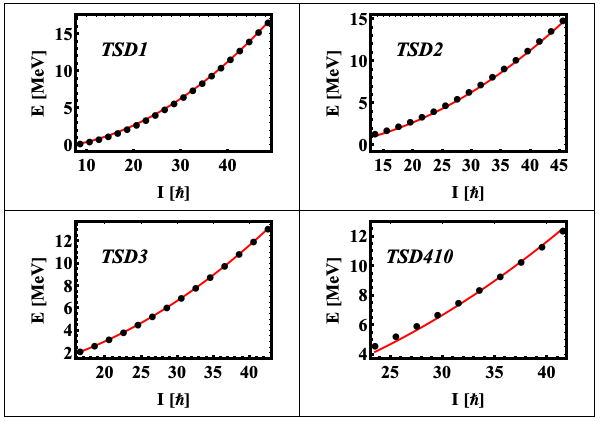
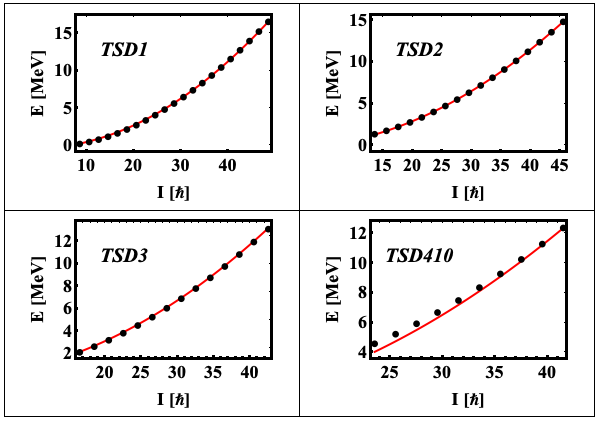
further path updates

diff --git a/README.md b/README.md
@@ -104,7 +104,7 @@ As an alternate nomenclature, the two major formalisms are considered as follows
 
 ### Understanding the coupling scheme of both formalisms
 
-When compared to the literature, where there exist two intruders (i.e. two valence protons, one for TSD1,2,3-$=13/2$ and one for TSD4-$j=9/2$) that create an alignment with the angular momentum of a triaxially deformed even-even core, in these new formalisms (novel approaches) it is speculated the fact that TSD4 keeps the same alignment particle but the core's angular momentum ($R$). As a result, in these calculations and the overall framework, the proton $\pi_{i;j=13/2}$ is considered to be the single-particle $\vec{j}$ vector that aligns with the core $R$ (keep in mind that there are two core state sequences, namely one which corresponds to the bands TSD1&3: $R_{TSD1;3}$ and one that corresponds to the bands TSD2&4: $R_{TSD2;4}$).
+When compared to the literature, where there exist two intruders (i.e. two valence protons, one for TSD1,2,3-$=13/2$ and one for TSD4-$j=9/2$) that create an alignment with the angular momentum of a triaxially deformed even-even core, in these new formalisms (novel approaches) it is speculated the fact that TSD4 keeps the same alignment particle but the core's angular momentum ($R$) is different (in the sense that the even-odd parity of the spin sequence changes). As a result, in these calculations and the overall framework, the proton $\pi_{i;j=13/2}$ is considered to be the single-particle $\vec{j}$ vector that aligns with the core $R$ (keep in mind that there are two core state sequences, namely one which corresponds to the bands TSD1&3: $R_{TSD1;3}$ and one that corresponds to the bands TSD2&4: $R_{TSD2;4}$).
 
 Diagrams for the coupling schemes adopted in this project can be seen below.
 
@@ -143,9 +143,24 @@ This implementation (written in `C++`) is developed before the adoption of (A,B)
 
 #### `5-params V.1` Implementation - Fit Results
 
+For: TSD4: $(n_{w_1},n_{w_2})=(0,0)$
+
+```text
+##########################
+I1= 77
+I2= 47
+I3= 3
+V= 2.1
+gamma= 16
+E_RMS= 0.197384
+##########################
+```
+
+![tsd1234_bands](Resources/Output_Graphs/Signature_Formalism/tsd4_00_gridplot.png)
+
 For: TSD4: $(n_{w_1},n_{w_2})=(1,0)$
 
-```
+```text
 ##########################
 I1= 73
 I2= 3
@@ -156,11 +171,7 @@ E_RMS= 0.143092
 ##########################
 ```
 
-___
->needs path
-___
-
-<!-- ![tsd1234_bands] -->
+![tsd1234_bands](Resources/Output_Graphs/Signature_Formalism/tsd4_10_gridplot.png)
 
 ### `5-params-unified` `(V.2)` Implementation
 
@@ -209,16 +220,12 @@ In this plot, the *single particle potential strength* ($V$) is graphically repr
 
 The fourth band has two possible formalisms in the analytic calculations (namely, a ground state band given by the phonon numbers $(0,0)$ and a 1-phonon excited band built on top of the yrast band $(1,0)$).
 
-___
->needs path
-___
-
-<!-- ![](./Reports/V_evolution.jpeg) -->
+![](Resources/Output_Graphs/Signature_Formalism/V_evolution.jpeg)
 
 
 ## Serial vs. Parallel implementation (`V.1`)
 
-In the latest project update [](), the search function for the energy's root mean square error is computed in a multi-threaded approach, using the `openMP` standard for computing the RMS value for different values of the triaxiality parameter $\gamma$ at the same time. This considerably reduces the computational runtime (check image below), where the execution time increases with the decrease in the step for the moment of inertia $\mathcal{I}$.
+In the latest project update  **UPDATE LINK** [](), the search function for the energy's root mean square error is computed in a multi-threaded approach, using the `openMP` standard for computing the RMS value for different values of the triaxiality parameter $\gamma$ at the same time. This considerably reduces the computational runtime (check image below), where the execution time increases with the decrease in the step for the moment of inertia $\mathcal{I}$.
 
 (In the figure below, the step sizes are as follow: 20, 10, 5,respectively.)
 
